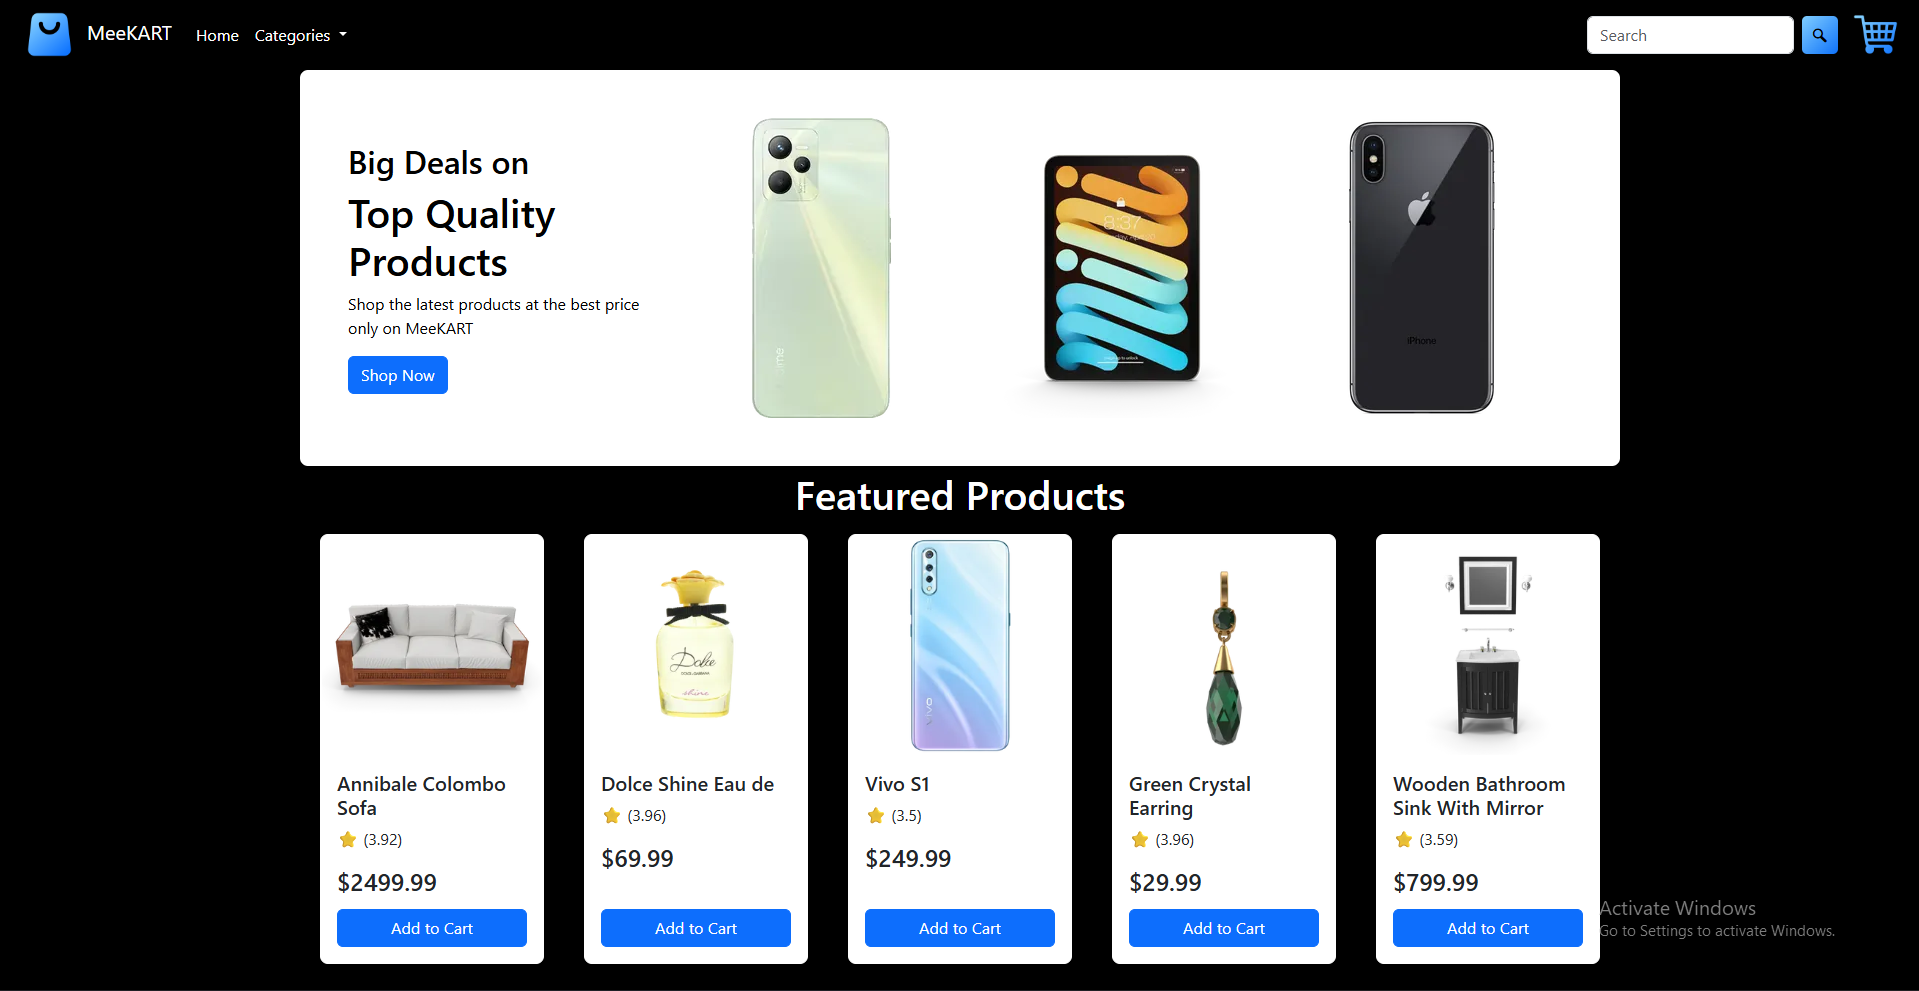
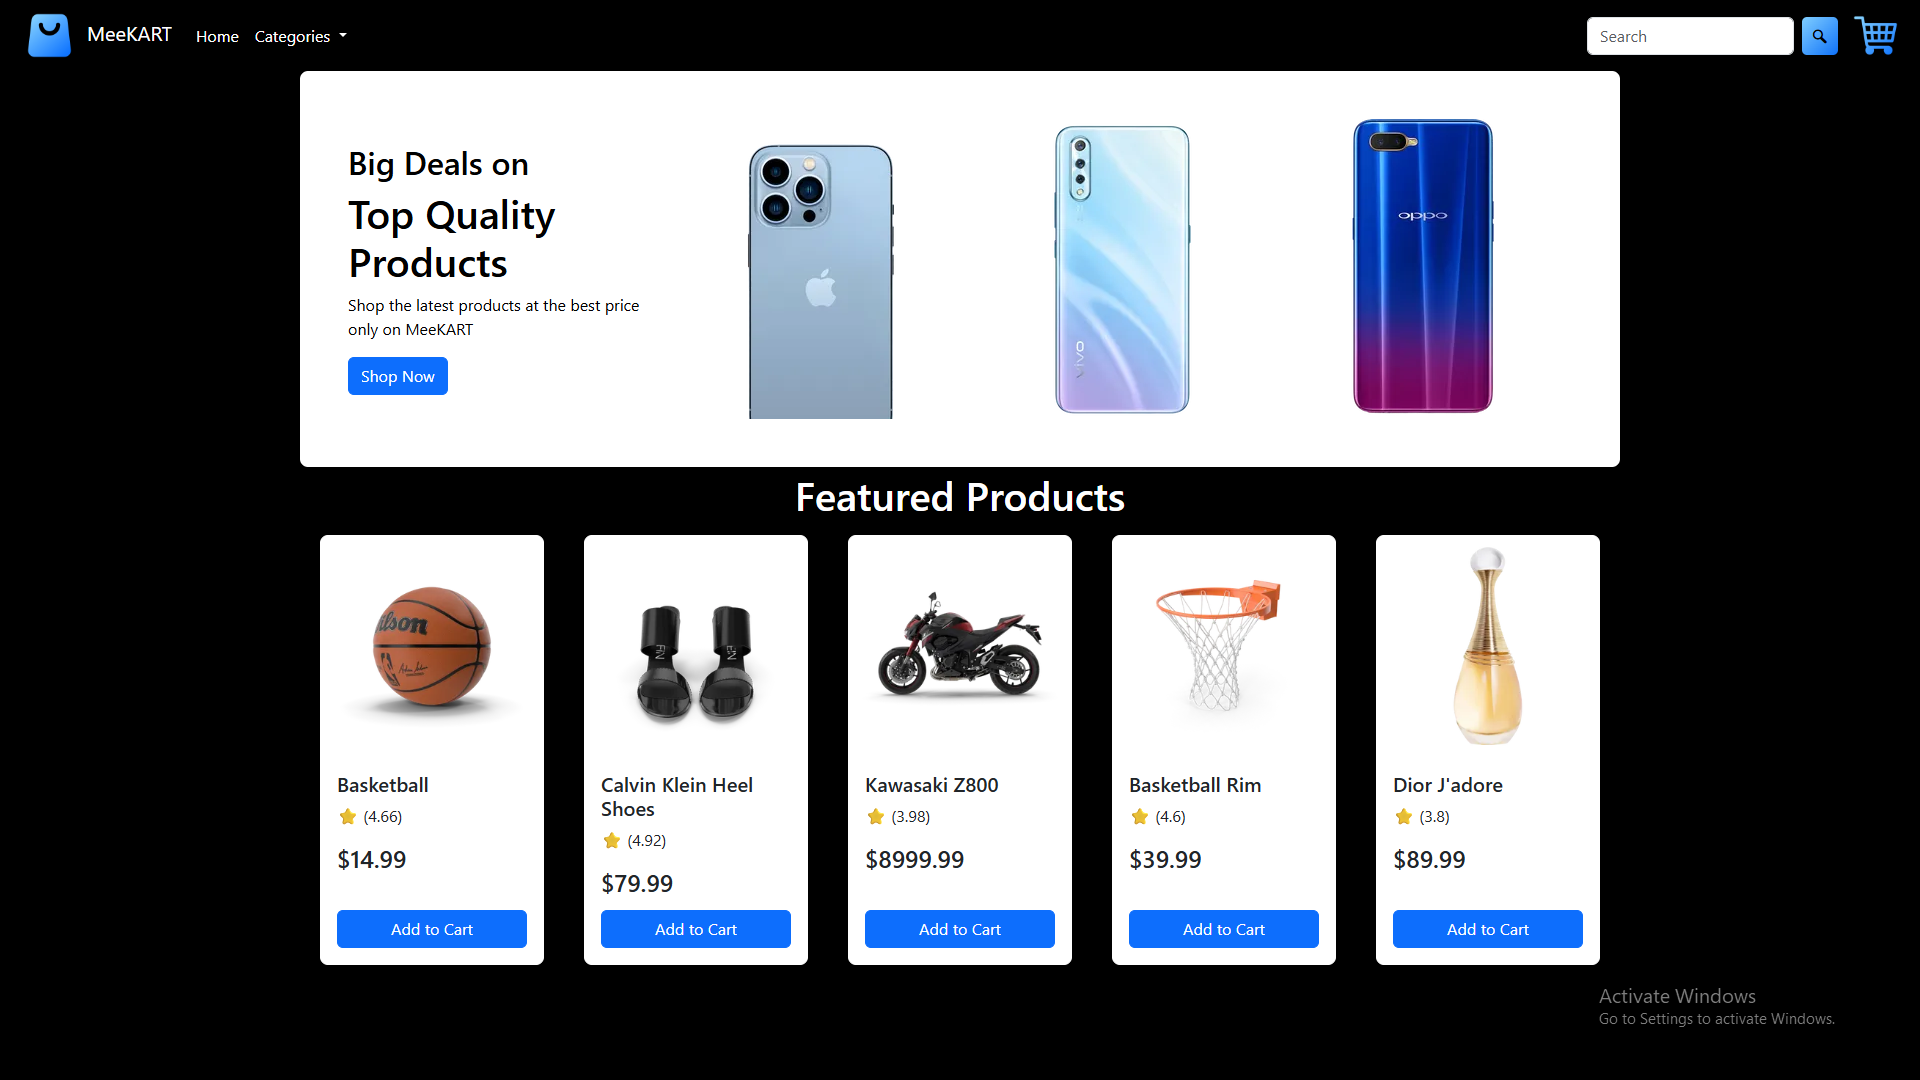
Changed hero page subtitle, about section and added new project & skill

Changed region(s): [[0.0, 0.0303, 1.0, 1.0], [0.8301, 0.0, 1.0, 0.0605]]

diff --git a/index.html b/index.html
@@ -42,8 +42,8 @@
         </h2>
 
         <p>
-          Computer Science and Business Systems student passionate about Web
-          Development, Docker, APIs and building practical software solutions.
+          Computer Science and Business Systems student passionate about Web Development, 
+          React.js, Tailwind CSS, APIs, and building practical, user-focused applications.
         </p>
 
         <div class="hero-buttons">
@@ -77,10 +77,13 @@
 
       <div class="about-content">
         <p>
-          Computer Science and Business Systems student passionate about frontend development with experience in HTML5, CSS3, Bootstrap, JavaScript (ES6+), and React.js. 
-          Skilled in building responsive web applications, integrating REST APIs, handling JSON data, and developing reusable UI components. 
-          Familiar with React Router, client-side form validation, Git, GitHub, and deploying applications on Vercel. 
-          Continuously learning modern web technologies and building projects to strengthen my development skills.
+          Computer Science and Business Systems student focused on frontend development, with hands-on experience in 
+          HTML5, CSS3, JavaScript (ES6+), React.js, and Tailwind CSS. Experienced in building responsive 
+          web applications, integrating REST APIs, handling JSON data, implementing client-side routing and form 
+          validation, and developing reusable UI components. Familiar with Git, GitHub, Local Storage, and deploying 
+          applications using Vercel. Continuously learning modern web technologies and building practical projects 
+          to strengthen my development skills.
+
         </p>
       </div>
 
@@ -136,9 +139,9 @@
 
         <div class="skill-card">
           
-            <img src="https://cdn.jsdelivr.net/gh/devicons/devicon@latest/icons/bootstrap/bootstrap-original.svg" />
+            <img src="https://cdn.jsdelivr.net/gh/devicons/devicon@latest/icons/tailwindcss/tailwindcss-original.svg" />
           
-          <h3>Bootstrap5</h3>
+          <h3>Tailwind CSS</h3>
         </div>
 
         <div class="skill-card">
@@ -234,35 +237,38 @@
 
       <div class="projects-grid">
 
-        <!-- Form-Validator -->
+         <!-- AI TOOLS DIRECTORY -->
 
         <div class="project-card">
           <img
-            src="Assets/ProjectsImage/FormValidator.png"
-            alt="GitHub-Finder Screenshot"
+            src="Assets/ProjectsImage/AIToolsDirectory.png"
+            alt="AI Tools Directory Screenshot"
           />
-          <h3>Form Validator</h3>
+          <h3>AI Tools Directory</h3>
 
           <p>
-            A responsive signup form with client-side validation to improve user experience and ensure valid user input
+            Built a responsive AI Tools Directory using React.js and Tailwind CSS
+             AI Tools Directory built with search, category filtering, and dynamic tool details.
+            
           </p>
 
           <div class="project-buttons">
             <a
-              href="https://form-validation-gules-theta.vercel.app/"
+              href="https://ai-tools-directory-alpha-ten.vercel.app/"
               target="_blank"
             >
-              Live Demo
-            </a>
-
-            <a
-              href="https://github.com/MDarshath007/form-validation"
+            Live Demo
+          </a>
+          
+          <a
+              href="https://github.com/MDarshath007/AI-Tools-Directory"
               target="_blank"
             >
               GitHub
             </a>
           </div>
         </div>
+
 
         <!-- GitHub-Finder -->
 
@@ -294,12 +300,42 @@
           </div>
         </div>
 
+        <!-- Form-Validator -->
+
+        <div class="project-card">
+          <img
+            src="Assets/ProjectsImage/FormValidator.png"
+            alt="Form-Validator Screenshot"
+          />
+          <h3>Form Validator</h3>
+
+          <p>
+            A responsive signup form with client-side validation to improve user experience and ensure valid user input
+          </p>
+
+          <div class="project-buttons">
+            <a
+              href="https://form-validation-gules-theta.vercel.app/"
+              target="_blank"
+            >
+              Live Demo
+            </a>
+
+            <a
+              href="https://github.com/MDarshath007/form-validation"
+              target="_blank"
+            >
+              GitHub
+            </a>
+          </div>
+        </div>
+
         <!-- E-COMMERCE -->
 
         <div class="project-card">
           <img
             src="Assets/ProjectsImage/E-Commerce.png"
-            alt="PlayStore Clone Screenshot"
+            alt="E-Commerce Screenshot"
           />
           <h3>E-Commerce App</h3>
 
@@ -318,37 +354,6 @@
 
             <a
               href="https://github.com/MDarshath007/E-Commerce-App"
-              target="_blank"
-            >
-              GitHub
-            </a>
-          </div>
-        </div>
-
-        <!-- PLAYSTORE -->
-
-        <div class="project-card">
-          <img
-            src="Assets/ProjectsImage/PlayStore.png"
-            alt="PlayStore Clone Screenshot"
-          />
-          <h3>PlayStore Clone</h3>
-
-          <p>
-            Google Play Store inspired web application that displays games
-            through API integration.
-          </p>
-
-          <div class="project-buttons">
-            <a
-              href="https://mdarshath007.github.io/PlayStore-Clone/"
-              target="_blank"
-            >
-              Live Demo
-            </a>
-
-            <a
-              href="https://github.com/MDarshath007/PlayStore-Clone"
               target="_blank"
             >
               GitHub
